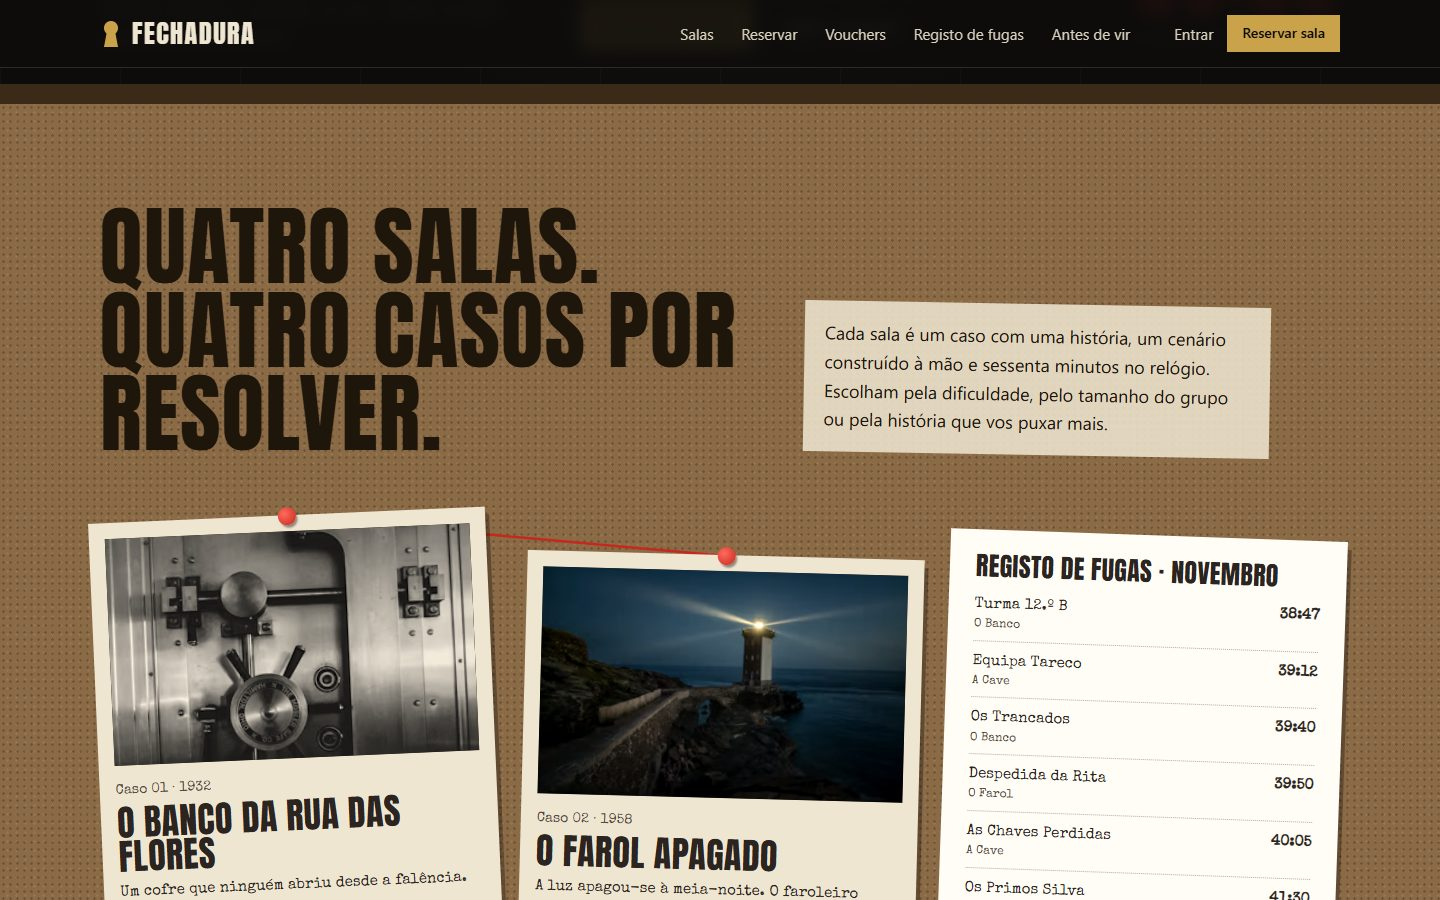
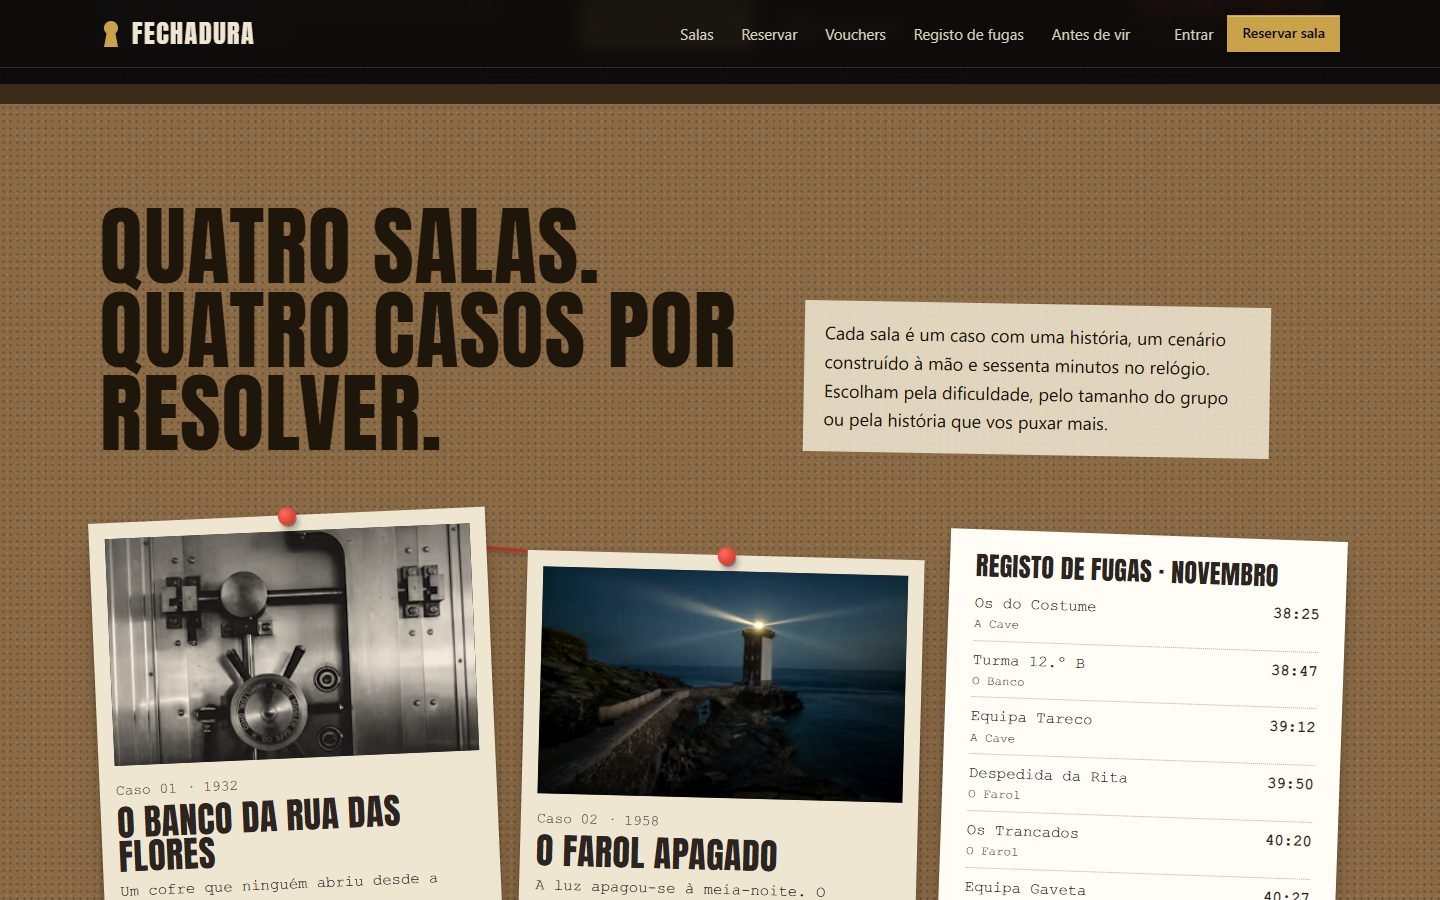
fechadura: capturas e readme atualizados

diff --git a/fechadura/README.md b/fechadura/README.md
@@ -72,18 +72,23 @@ Funciona **sem base de dados**: os dados vivem em memória e são gerados a part
 
 ## 🗝 O design
 
-- **O site abre trancado.** O cadeado é feito só com CSS (latão, aro de aço e quatro rodas com o algarismo anterior e o seguinte). Quando o código está certo, o aro sobe, o título muda para "Aberto" e a página desce até às salas. O relógio no canto conta 60 minutos desde que a página abriu.
+- **O site abre trancado.** O cadeado é feito com CSS e SVG: corpo de latão com parafusos, letras gravadas e fechadura, aro de aço com reflexos e uma janela afundada com quatro rodas. Cada roda é uma fita de algarismos que rola (setas, teclado, roda do rato ou arrastar com o dedo), com sombra de cilindro.
+- **Animações do cadeado**: cai no sítio quando a página abre, tem um brilho que passa pelo latão de tempos a tempos e uma lanterna que segue o rato. Com o código errado abana e as pistas mexem-se; com o certo o aro salta, o corpo dá um estalo, saltam faíscas de latão e a página desce até às salas. Tudo respeita `prefers-reduced-motion`. O relógio no canto conta 60 minutos desde que a página abriu.
 - **Ninguém fica fechado.** O atalho "Não quero jogar" está sempre à vista, o conteúdo está todo no HTML e as rodas funcionam com teclado e leitor de ecrã.
-- **Quadro de cortiça**: os casos estão presos com alfinetes, e o fio vermelho entre eles é desenhado em SVG a partir da posição real de cada alfinete, por isso acompanha qualquer largura de ecrã.
+- **Quadro de cortiça**: os casos estão presos com alfinetes, e o fio vermelho entre eles é desenhado em SVG a partir da posição real de cada alfinete, um pouco descaído, por isso acompanha qualquer largura de ecrã.
+- **Sombras em camadas**: cada papel tem uma sombra curta e escura junto à superfície e outra larga e suave, como se estivesse mesmo pousado; os cartões levantam-se ao passar o rato.
+- **Mapa dobrado** de Cedofeita, desenhado em SVG: quarteirões, jardim, rosa dos ventos, escala, vincos do papel e o caminho a pé desde o metro da Trindade, com o pino da porta a pulsar.
 - **Cada sala tem a sua cor** (latão, azul de farol, vermelho de alcatifa, verde de garrafa), que aparece no separador da pasta, na agenda, no bilhete e no livro de registos.
 - **Letras**: Anton para os títulos, como os carimbos e as etiquetas de arquivo, e Special Elite, uma letra de máquina de escrever, para tudo o que é papel.
 - **No telemóvel** as pistas passam para baixo do cadeado, os cartões deixam de estar tortos e o fio vermelho desaparece.
 
 ## 📸 Capturas
 
-| Quadro das salas | Preços e vouchers |
+| Cadeado aberto | Quadro das salas |
 |---|---|
-| ![Quadro das salas](docs/quadro.jpg) | ![Preços](docs/precos.jpg) |
+| ![Cadeado aberto](docs/aberto.jpg) | ![Quadro das salas](docs/quadro.jpg) |
+| **Preços e vouchers** | **Onde fica** |
+| ![Preços](docs/precos.jpg) | ![Mapa](docs/mapa.jpg) |
 | **Arquivo das salas** | **Dossier de uma sala** |
 | ![Arquivo](docs/salas.jpg) | ![Sala](docs/sala.jpg) |
 | **O caso e as provas** | **Ficha de reserva** |
